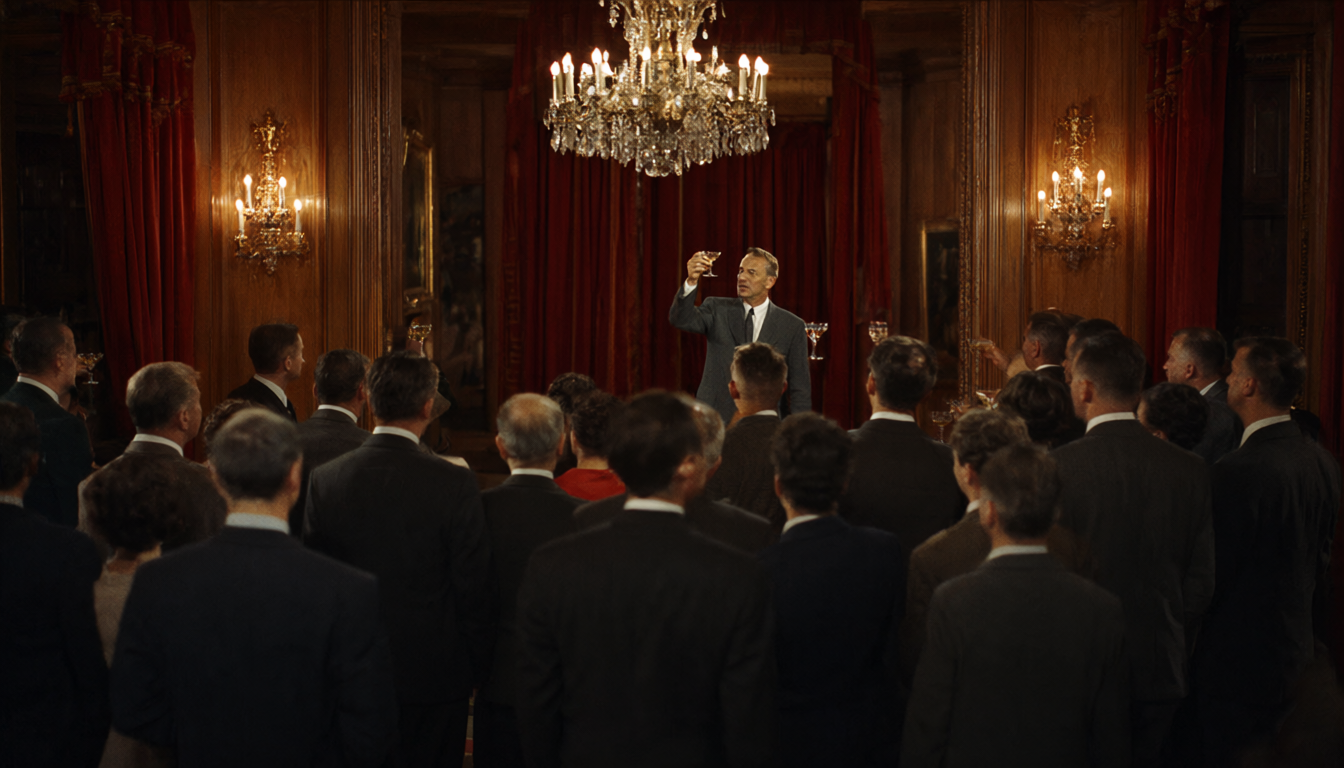
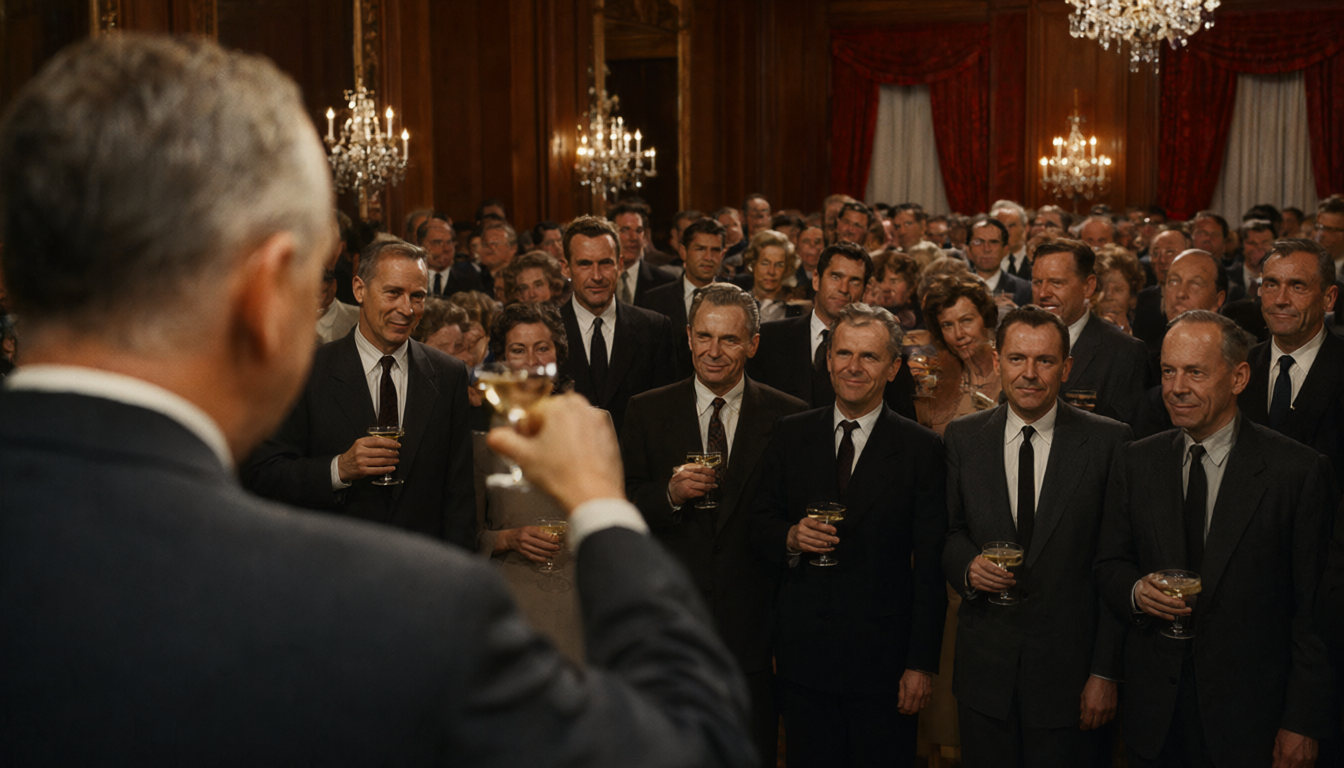
Trailer: the scripted FilmCraft edit, and the test shots' second round
make_edit.py cuts the picked takes from shots.json, captions and audio.json into a sequence and exports
it headless. The toast is shot from behind the speaker now, the teletype is a teleprinter, and the
Sputnik shot uses the user's mission configuration art as its reference.

diff --git a/assets-raw/trailer/make_edit.py b/assets-raw/trailer/make_edit.py
@@ -1,0 +1,167 @@
+"""Cuts the trailer in FilmCraft from the script and the picks (PLAN.md §4), headless.
+
+Every shot with a picked clip for the profile (picks.json "<shot>/<profile>") goes on V1 in film order, trimmed
+to its "trim" [in, out] seconds and filled to the 1920x1080 frame, its own H3 sound on A1. A shot's caption is a
+text graphic over it, faded in and out. audio.json's tracks go on A2. The film fades in from black and out to
+black.
+
+FilmCraft's CLI answers each command with the ids the next ones need (imported items, placed clips), so the edit
+is built in a few runs: import, place, then the effects on the placed clips.
+
+Usage:
+    python make_edit.py                    # draft clips
+    python make_edit.py --profile final
+    python make_edit.py --frames 1.0 7.5   # also render single frames to build/ for a look
+
+Writes build/trailer-<profile>.fcproj and build/trailer-<profile>.mp4.
+"""
+import argparse
+import json
+import os
+import subprocess
+
+HERE = os.path.dirname(os.path.abspath(__file__))
+BUILD = os.path.join(HERE, 'build')
+FILMCRAFT = r'C:\Program Files\FilmCraft\filmcraft-cli.exe'
+TICKS = 254016000000  # FilmCraft's ticks per second
+FPS = 24
+CAPTION = {'font': 'Work Sans', 'size': 44, 'position': [110, 990], 'fade': 0.4}
+FADE_FRAMES = 12
+
+
+def read(name):
+    with open(os.path.join(HERE, name), encoding='utf-8') as source:
+        return json.load(source)
+
+
+def ticks(seconds):
+    return round(seconds * TICKS)
+
+
+def filmcraft(project, commands, save=True):
+    """Runs commands (dicts of id and params) on the project; returns each command's result."""
+    script = os.path.join(BUILD, 'step.jsonl')
+    with open(script, 'w', encoding='utf-8') as out:
+        for command in commands:
+            out.write(json.dumps(command) + '\n')
+    args = [FILMCRAFT, '--compact']
+    args += ['--project', project, '--save'] if os.path.exists(project) else ['--save-as', project]
+    done = subprocess.run(args + ['run', script], capture_output=True, text=True, encoding='utf-8')
+    results = []
+    for line in done.stdout.splitlines():
+        line = line.strip()
+        if not line.startswith('{'):
+            continue
+        result = json.loads(line)
+        if not result.get('ok'):
+            raise RuntimeError(f'FilmCraft: {line}\n{done.stderr}')
+        results.append(result.get('result'))
+    if done.returncode != 0 or len(results) != len(commands):
+        raise RuntimeError(f'FilmCraft exit {done.returncode}: {done.stdout}\n{done.stderr}')
+    return results
+
+
+def placeholder_beep(path):
+    """Two short beeps a second, a stand-in until the real recording of Sputnik's signal is in."""
+    subprocess.run(['ffmpeg', '-loglevel', 'error', '-y', '-f', 'lavfi', '-i',
+                    'aevalsrc=0.4*sin(2*PI*900*t)*lt(mod(t\\,0.5)\\,0.18):s=48000:d=10', path], check=True)
+
+
+def main():
+    parser = argparse.ArgumentParser()
+    parser.add_argument('--profile', default='draft')
+    parser.add_argument('--frames', nargs='*', type=float, default=[])
+    args = parser.parse_args()
+
+    os.makedirs(BUILD, exist_ok=True)
+    shots = read('shots.json')['shots']
+    audio = read('audio.json')['tracks']
+    picks = read('picks.json')
+    project = os.path.join(BUILD, f'trailer-{args.profile}.fcproj')
+    if os.path.exists(project):
+        os.remove(project)
+
+    cut = [s for s in shots if f'{s["id"]}/{args.profile}' in picks]
+    if not cut:
+        raise SystemExit(f'no picked {args.profile} clips')
+    for track in audio:
+        path = os.path.join(HERE, track['file'])
+        if os.path.basename(path).startswith('placeholder-beep') and not os.path.exists(path):
+            placeholder_beep(path)
+
+    # 1. The sequence and the media.
+    media = [os.path.join(HERE, picks[f'{s["id"]}/{args.profile}']) for s in cut]
+    media += [os.path.join(HERE, t['file']) for t in audio]
+    sequence, imported = filmcraft(project, [
+        {'id': 'file.newSequence', 'params': {'name': f'Launch Window trailer ({args.profile})',
+                                              'width': 1920, 'height': 1080, 'fps': FPS}},
+        {'id': 'file.import', 'params': {'paths': [m.replace('\\', '/') for m in media]}},
+    ])
+    if imported['errors']:
+        raise RuntimeError(imported['errors'])
+    items = imported['items']
+
+    # 2. The shots back to back on V1 (their sound on A1), audio.json on A2.
+    starts, at, places = {}, 0.0, []
+    for shot, item in zip(cut, items):
+        start, end = shot.get('trim', [0.0, shot['duration']])
+        starts[shot['id']] = at
+        places.append({'id': 'timeline.place', 'params': {
+            'item': item, 'track': 'V1', 'audioTrack': 'A1', 'seconds': at,
+            'sourceIn': {'seconds': start}, 'duration': {'seconds': end - start}}})
+        at += end - start
+    length = at
+    for track, item in zip(audio, items[len(cut):]):
+        when = starts[track['under']] + track.get('offset', 0.0) if 'under' in track else track['at']
+        if 'under' in track:
+            start, end = next(s for s in cut if s['id'] == track['under']).get('trim', [0.0, next(s for s in cut if s['id'] == track['under'])['duration']])
+            span = end - start
+        else:
+            span = track['for']
+        places.append({'id': 'timeline.place', 'params': {
+            'item': item, 'track': 'A2', 'seconds': when, 'video': False,
+            'sourceIn': {'seconds': 0}, 'duration': {'seconds': span - track.get('offset', 0.0)}}})
+    placed = filmcraft(project, places)
+    video_clips = [p['clips'][0] for p in placed[:len(cut)]]
+    audio_clips = [p['clips'][0] for p in placed[len(cut):]]
+
+    # 3. Frame filling, the fades from and to black, the gains, the captions.
+    effects = [{'id': 'clip.fillFrame', 'params': {'clips': video_clips}},
+               {'id': 'sequence.applyVideoTransition', 'params': {
+                   'clip': video_clips[0], 'effect': 'cross_dissolve', 'frames': FADE_FRAMES, 'edge': 'in', 'align': 'start'}},
+               {'id': 'sequence.applyVideoTransition', 'params': {
+                   'clip': video_clips[-1], 'effect': 'cross_dissolve', 'frames': FADE_FRAMES, 'edge': 'out', 'align': 'end'}}]
+    filmcraft(project, effects)
+    gains = [{'id': 'effects.setParam', 'params': {'clip': clip, 'effect': 'volume', 'param': 'level',
+                                                   'value': track['gainDb']}}
+             for track, clip in zip(audio, audio_clips) if 'gainDb' in track]
+    if gains:
+        filmcraft(project, gains)
+
+    for shot in cut:
+        caption = shot.get('caption')
+        if not caption:
+            continue
+        begin = starts[shot['id']] + caption['at']
+        made = filmcraft(project, [{'id': 'graphics.newText', 'params': {
+            'text': caption['text'], 'position': CAPTION['position'], 'size': CAPTION['size'],
+            'font': CAPTION['font'], 'seconds': caption['for'], 'time': ticks(begin), 'newClip': True}}])[0]
+        fade, end = CAPTION['fade'], begin + caption['for']
+        filmcraft(project, [{'id': 'graphics.set', 'params': {
+            'clip': made['clip'], 'layer': made['layer'], 'props': {'opacity': value},
+            'time': ticks(when), 'keyframe': True}}
+            for when, value in ((begin, 0), (begin + fade, 100), (end - fade, 100), (end - 0.01, 0))])
+
+    # 4. Export, and any frames asked for.
+    movie = os.path.join(BUILD, f'trailer-{args.profile}.mp4')
+    exported = filmcraft(project, [{'id': 'file.exportMedia', 'params': {'path': movie.replace('\\', '/'),
+                                                                         'format': 'h264'}}])[0]
+    for seconds in args.frames:
+        subprocess.run([FILMCRAFT, '--project', project, 'render', '--seconds', str(seconds), '--out',
+                        os.path.join(BUILD, f'frame-{args.profile}-{seconds:05.2f}.png')], check=True,
+                       capture_output=True)
+    print(f'{movie}  {length:.1f} s, {len(cut)} shots, exported in {exported["result"]["seconds"]:.1f} s')
+
+
+if __name__ == '__main__':
+    main()

diff --git a/assets-raw/trailer/PLAN.md b/assets-raw/trailer/PLAN.md
@@ -197,9 +197,9 @@ The film has about 20–25 shots. With 3–4 variants per shot that is 80–100 
 
 ## 8. Open points
 
-- The edit was only tested with dummy clips: phase 1's test shot also goes through `make_edit.py`
-  (transitions, the sound mix and fades still untried). The fallback is EffectCraft, proven headless
-  in this repo.
+- The edit works (2026-11-21): `make_edit.py` cut the four test shots into a 19 s rough cut with
+  captions faded in and out, fades from and to black, the clips' own sound and a placeholder beep
+  at −6 dB, exported in 13 s. Still untried: cuts between shots other than hard cuts, and the score.
 - The draft-to-final path (§4): settled in the test shot.
 - The upscaler for 1080p: chosen in the test shot.
 - Score: Music 3 or a curated track (credited either way).
